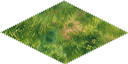
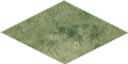
草地地面块改用工笔风 AI 源图（城门风格锚），重烘焙 4 张变体

diff --git a/shanhai/assets_src/tools/modv2/gen_ground_ai.py b/shanhai/assets_src/tools/modv2/gen_ground_ai.py
@@ -6,7 +6,7 @@
 变体取自同图不同窗口（部分水平镜像/180° 旋转），渲染层按格坐标哈希分发。
 
 源图（generated-images/）：
-- grass Seamless_tileable_top_down_gro_2026-11-14T03-28-46.png
+- grass Seamless_tileable_top_down_tex_2026-11-14T03-38-36.png（工笔风，城门风格锚）
 - stone Seamless_tileable_top_down_gro_2026-11-14T03-29-02.png
 - water Seamless_tileable_top_down_gro_2026-11-14T03-29-15.png
 - dirt  Seamless_tileable_top_down_gro_2026-11-14T03-29-31.png
@@ -24,7 +24,7 @@ OUT = Path(__file__).resolve().parents[3] / 'public' / 'assets' / 'art' / 'iso'
 W, H = 128, 64
 WIN_W, WIN_H = 512, 256          # 4× 下采样窗口，无纵横比失真
 FILES = {
-    'grass': 'Seamless_tileable_top_down_gro_2026-11-14T03-28-46.png',
+    'grass': 'Seamless_tileable_top_down_tex_2026-11-14T03-38-36.png',
     'stone': 'Seamless_tileable_top_down_gro_2026-11-14T03-29-02.png',
     'water': 'Seamless_tileable_top_down_gro_2026-11-14T03-29-15.png',
     'dirt': 'Seamless_tileable_top_down_gro_2026-11-14T03-29-31.png',
